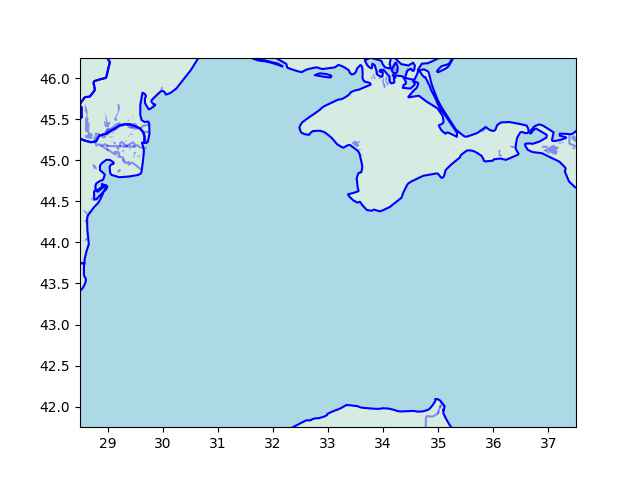
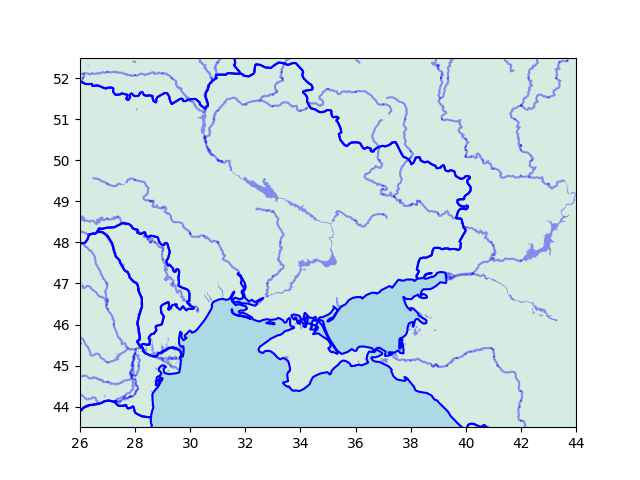
-

diff --git a/sk/2023/07/basit-haritalama-paketi.md b/sk/2023/07/basit-haritalama-paketi.md
@@ -164,8 +164,8 @@ Nehirler, Göller
 Odaklanan bölge içine duen şu öbekleri için `plot_water` var,
 
 ```python
-clat,clon = 48, 33
-zoom = 0.5
+clat,clon = 48, 35
+zoom = 1.0
 fig, ax = plt.subplots() 
 sm.plot_countries(clat,clon,zoom=zoom,ax=ax,force_include=['RUS'])
 sm.plot_water(clat,clon,zoom=zoom,ax=ax)
